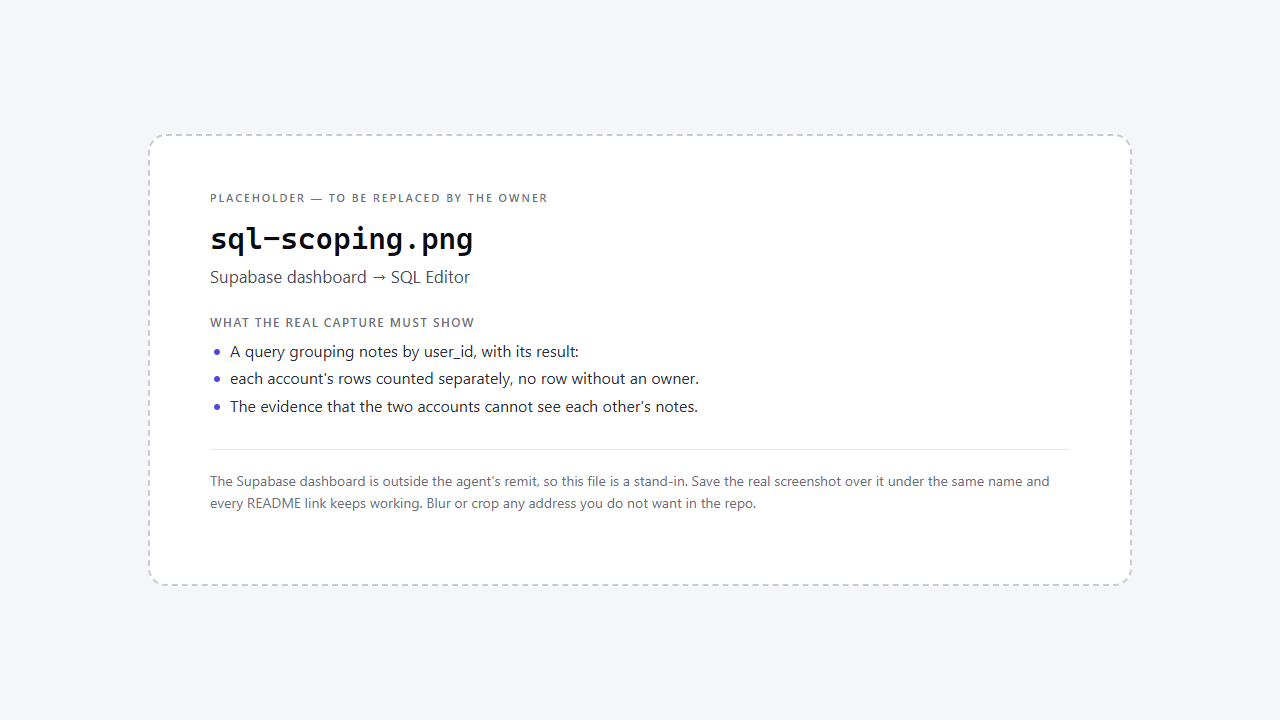
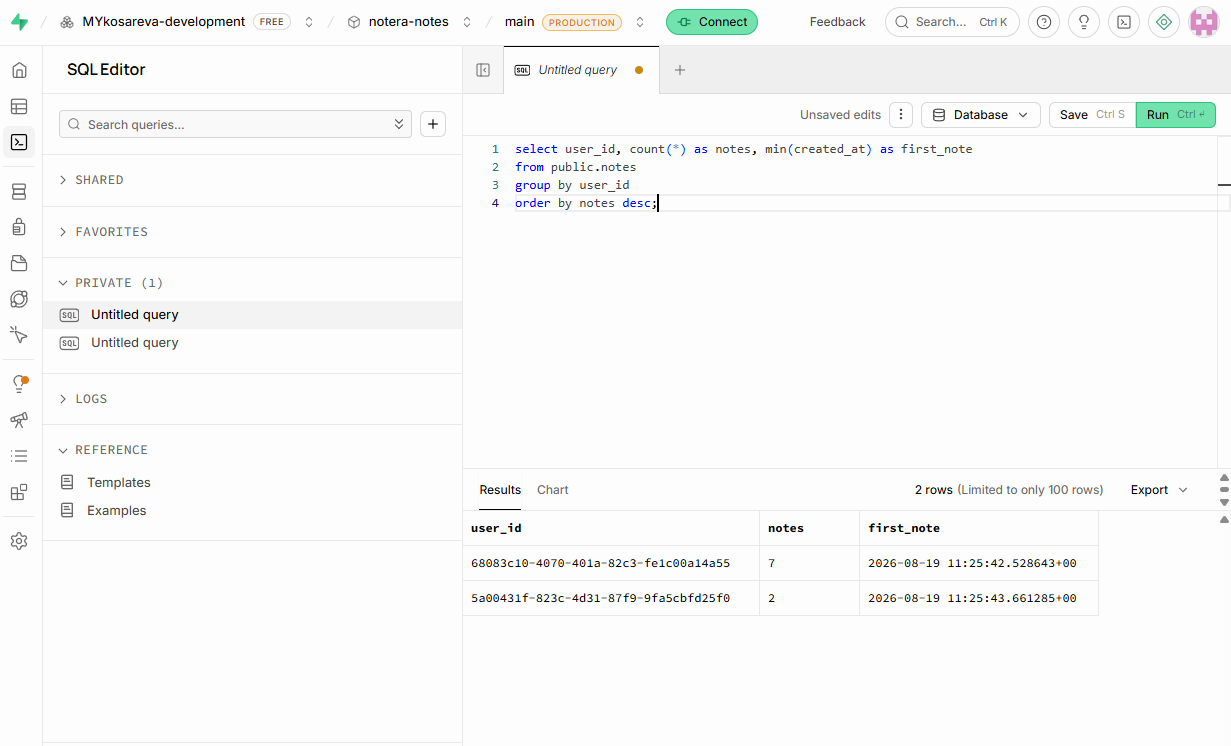
docs: the owner's three dashboard captures, and the README claims they support
The placeholders are replaced by real captures, so the docs that described them as
placeholders had to change with them (rule 18).

README:
- Verification is now three embedded captures with what each proves, rather than a
  table of links: Authentication → Users, Table Editor → public.notes, and the SQL
  Editor grouping. The SQL block is the query actually run in the screenshot, and
  the stated result (7 notes for one owner, 2 for the other) is what it returns.
- The self-signup step names Authentication → Sign In / Providers again. That path
  was dropped last commit as an unverified memory; auth-users.png shows the sidebar,
  so it is now evidence. The /auth/v1/settings probe stays, being re-checkable.
- Added a short section on the installed Supabase Agent Skills and docs/, which
  REQUIREMENTS grades and the README did not mention.

docs/screenshots/README.md: the dashboard three are described as the owner's real
captures, with their sizes, and the cross-check between them — the two UIDs in
auth-users.png are the two user_id values in table-user-id.png, and 7 + 2 accounts
for every row there. Also records that the captures were checked for keys and
addresses before committing, since a Settings → API screen would put a key in the
repo.

diff --git a/README.md b/README.md
@@ -64,12 +64,15 @@ calls `supabase.auth.getUser()` itself and refuses to run without a user.
    dialog sends no confirmation email, so an unconfirmed account would have no way to
    confirm itself and could not sign in.
 
-   While you are there, turn **off** public self-signup for the project. The app never
-   calls `signUp`, but the Auth API accepts one until that setting is off. You can check
-   it from the terminal without opening the dashboard:
+   While you are there, turn **off** public self-signup under **Authentication →
+   Sign In / Providers**. The app never calls `signUp`, but the Auth API accepts one
+   until that setting is off. You can check it from the terminal without opening the
+   dashboard:
 
    ```bash
-   curl -s -H "apikey: $NEXT_PUBLIC_SUPABASE_ANON_KEY"      "$NEXT_PUBLIC_SUPABASE_URL/auth/v1/settings" | grep -o '"disable_signup":[a-z]*'
+   curl -s -H "apikey: $NEXT_PUBLIC_SUPABASE_ANON_KEY" \
+     "$NEXT_PUBLIC_SUPABASE_URL/auth/v1/settings" \
+     | grep -o '"disable_signup":[a-z]*'
    # want: "disable_signup":true
    ```
 
@@ -105,17 +108,44 @@ Other scripts: `npm run typecheck` (`tsc --noEmit`), `npm run build`, `npm start
   count); the per-tag length and the notes-per-account cap are enforced in the DAL only,
   which is a recorded pending schema amendment rather than an oversight.
 
+## Supabase guidance in this repo
+
+The official Supabase Agent Skills are installed (`npx skills add supabase/agent-skills`)
+and pinned in [`skills-lock.json`](skills-lock.json) — `supabase` and
+`supabase-postgres-best-practices`, under `.agents/skills/`. Alongside them,
+[`docs/`](docs/) holds the Supabase documentation this project was built against, fetched
+via Context7, each file carrying its source URL and inline annotations. Both exist for
+the same reason: Supabase's auth patterns change often enough that training-data memory
+is the wrong authority for them.
+
 ## Verification
 
-The per-account scoping is verified in the Supabase dashboard, screenshots in
-[`docs/screenshots/`](docs/screenshots/) — see that folder's
-[README](docs/screenshots/README.md) for what each image must show.
+Per-account scoping, evidenced in the Supabase dashboard. All three captures are in
+[`docs/screenshots/`](docs/screenshots/).
 
-| Evidence | Screenshot |
-| --- | --- |
-| Both test accounts exist and were created in the dashboard | [`auth-users.png`](docs/screenshots/auth-users.png) |
-| Every row carries its owner's `user_id` | [`table-user-id.png`](docs/screenshots/table-user-id.png) |
-| `select user_id, count(*) from notes group by user_id;` returns two distinct owners | [`sql-scoping.png`](docs/screenshots/sql-scoping.png) |
+**Both accounts exist and were created by hand** — Authentication → Users. The app has
+no sign-up screen, so this is the only way an account gets made here.
+
+![Supabase Authentication → Users, showing the two test accounts](docs/screenshots/auth-users.png)
+
+**Every row carries its owner** — Table Editor → `public.notes`. The `user_id` column
+holds one of two uuids, and the table reports its 4 RLS policies (one per verb).
+
+![Supabase Table Editor on public.notes, with the user_id column populated](docs/screenshots/table-user-id.png)
+
+**The two accounts' rows are separate** — SQL Editor:
+
+```sql
+select user_id, count(*) as notes, min(created_at) as first_note
+from public.notes
+group by user_id
+order by notes desc;
+```
+
+Two rows come back: 7 notes for one `user_id`, 2 for the other, and no row without an
+owner (`user_id` is `not null` and defaults to `auth.uid()`).
+
+![The query result: two distinct user_id values, 7 and 2 notes](docs/screenshots/sql-scoping.png)
 
 The browser checklist that goes with them: sign in as A → create a note → reload (still
 there) → sign out → hit `/notes` directly (redirected to `/sign-in`) → sign in as B →

diff --git a/docs/screenshots/README.md b/docs/screenshots/README.md
@@ -14,18 +14,22 @@ capture only — a one-line injected `nextjs-portal{display:none}`, no source ch
 pointer is parked off-grid in `notes.png`, because a card under the cursor shows its
 hover border and its `⋮` button and then reads as one card styled unlike the other six.
 
-## Taken in the Supabase dashboard (owner only)
+## Taken in the Supabase dashboard (owner)
 
-The dashboard is outside the agent's remit, so these three ship as 1280 × 720 **placeholder PNGs**
-that say so. Save the real capture over the placeholder under the same filename and
-every `README.md` link keeps working — no README edit needed.
+The dashboard is outside the agent's remit, so these three are the owner's own captures.
+They replaced the placeholder PNGs that shipped in the first commit on this branch.
 
-| File | Where | What the real capture must show |
-| --- | --- | --- |
-| `auth-users.png` | Authentication → Users | Both test accounts, with Created at / Last sign in. Evidence the accounts are dashboard-created — the app has no sign-up flow. |
-| `table-user-id.png` | Table Editor → `notes` | The `user_id` column in frame and populated, two distinct uuids. That column is what every query in `lib/notes.ts` filters on. |
-| `sql-scoping.png` | SQL Editor | A query grouping `notes` by `user_id` with its result — each account's rows counted separately, no row without an owner. |
+| File | Size | Where | What it shows |
+| --- | --- | --- | --- |
+| `auth-users.png` | 1902 × 891 | Authentication → Users | Both test accounts, their UIDs, Created at and Last sign in. The evidence that accounts are made in the dashboard — the app has no sign-up flow. |
+| `table-user-id.png` | 1910 × 861 | Table Editor → `public.notes` | All nine rows with the `user_id` column populated by two distinct uuids, the `tags` array alongside, and the table's "4 RLS policies" badge. |
+| `sql-scoping.png` | 1231 × 746 | SQL Editor | `select user_id, count(*) … group by user_id` and its result: 7 notes for one owner, 2 for the other. |
 
-Addresses are visible in the dashboard's own UI. Nothing in this repo's *code* holds an
-email (CLAUDE.md rule 5) and these images are not code, but blur or crop anything you
-would rather not commit.
+The three cross-check each other: the two UIDs in `auth-users.png` are the two `user_id`
+values in `table-user-id.png`, and the 7 + 2 split in `sql-scoping.png` accounts for
+every row visible there.
+
+Checked before committing: no API key, no service-role key and no personal address is in
+frame, and both test accounts are synthetic `@example.com` ones. Anything
+re-captured later should be checked the same way, since a Settings → API screen would
+put a key in the repo.
